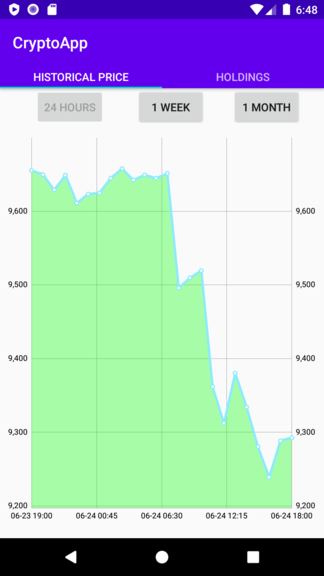
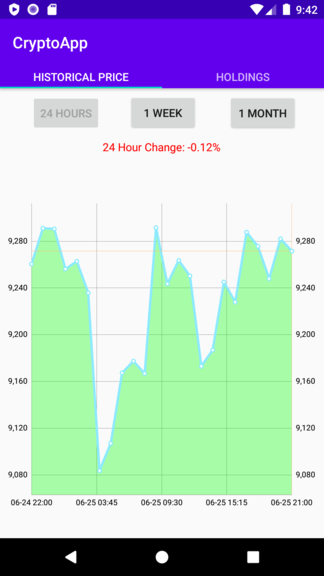
Added 1 Month price chart & percent change

diff --git a/app/src/main/java/com/example/cryptoapp/ui/main/ChartFragment.java b/app/src/main/java/com/example/cryptoapp/ui/main/ChartFragment.java
@@ -7,6 +7,7 @@ import android.view.LayoutInflater;
 import android.view.View;
 import android.view.ViewGroup;
 import android.widget.Button;
+import android.widget.TextView;
 
 
 import androidx.annotation.NonNull;
@@ -36,7 +37,6 @@ import org.json.JSONArray;
 import org.json.JSONException;
 import org.json.JSONObject;
 
-import java.lang.reflect.Array;
 import java.text.DateFormat;
 import java.text.ParseException;
 import java.text.SimpleDateFormat;
@@ -51,6 +51,8 @@ public class ChartFragment extends Fragment implements View.OnClickListener {
     private Date date = new Date();
     public LineChart priceChart;
 
+    private TextView change_in_price;
+
     private Button Hours;
     private Button Week;
     private Button Month;
@@ -64,6 +66,10 @@ public class ChartFragment extends Fragment implements View.OnClickListener {
     ArrayList time_1W_Arr = new ArrayList();
     ArrayList<Double> price_1W_Arr = new ArrayList<Double>();
     private long first_1W_timestamp;
+    
+    ArrayList time_1M_Arr = new ArrayList();
+    ArrayList<Double> price_1M_Arr = new ArrayList<Double>();
+    private long first_1M_timestamp;
 
 
     public ChartFragment(){
@@ -80,6 +86,8 @@ public class ChartFragment extends Fragment implements View.OnClickListener {
     @Override
     public View onCreateView(@NonNull LayoutInflater inflater, @Nullable ViewGroup container, @Nullable Bundle savedInstanceState) {
         View view = inflater.inflate(R.layout.fragment_chart, container, false);
+
+        change_in_price = view.findViewById(R.id.change_in_price);
 
         Hours = view.findViewById(R.id.Hours_Button);
         Week = view.findViewById(R.id.Week_Button);
@@ -106,6 +114,7 @@ public class ChartFragment extends Fragment implements View.OnClickListener {
         try {
             queue.add(find24HPrice(date));
             queue.add(find1WPrice(date));
+            queue.add(find1MPrice(date));
             Hours.setEnabled(false);
         } catch (ParseException e) {
             e.printStackTrace();
@@ -127,20 +136,88 @@ public class ChartFragment extends Fragment implements View.OnClickListener {
         switch (v.getId()){
             case R.id.Hours_Button:
                     plotChart(first_24H_timestamp, price_24H_Arr, time_24H_Arr, priceChart);
+                    setPercentColor(price_24H_Arr);
+                    change_in_price.setText("24 Hour Change: " + getPercentageChange(price_24H_Arr) + "%");
                     Hours.setEnabled(false);
-                break;
+                    break;
 
             case R.id.Week_Button:
                     plotChart(first_1W_timestamp, price_1W_Arr, time_1W_Arr, priceChart);
+                    setPercentColor(price_1W_Arr);
+                    change_in_price.setText("1 Week Change: " + getPercentageChange(price_1W_Arr) + "%");
                     Week.setEnabled(false);
-                break;
+                    break;
 
             case R.id.Month_Button:
-                Month.setEnabled(false);
-                break;
+                    plotChart(first_1M_timestamp, price_1M_Arr, time_1M_Arr, priceChart);
+                    setPercentColor(price_1M_Arr);
+                    change_in_price.setText("1 Month Change: " + getPercentageChange(price_1M_Arr) + "%");
+                    Month.setEnabled(false);
+                    break;
         }
 
     }
+
+    private void setPercentColor (ArrayList<Double> priceArr){
+        Double percentageChange = getPercentageChange(priceArr);
+        if(percentageChange < 0.00){
+            change_in_price.setTextColor(Color.RED);
+        }
+        else{
+            change_in_price.setTextColor(Color.GREEN);
+        }
+    }
+
+    public StringRequest find1MPrice(Date date) throws ParseException {
+        Calendar calendar = Calendar.getInstance();
+        SimpleDateFormat sdf = new SimpleDateFormat("yyyy-MM-dd'T'HH:mm:ss'Z'");
+
+        String current_time = sdf.format(calendar.getTime());
+        calendar.add(Calendar.DAY_OF_YEAR, -30);
+        String time_1MonthAgo = sdf.format(calendar.getTime());
+
+        String url_for_historical_data = "https://rest.coinapi.io/v1/ohlcv/BTC/USD/history?period_id=1DAY&time_start=";
+        String full_url = url_for_historical_data + time_1MonthAgo + "&apikey=" + api;
+
+        first_1M_timestamp = get1MAgoTime(sdf, calendar);
+
+        return new StringRequest(Request.Method.GET, full_url,
+                new Response.Listener<String>() {
+                    @Override
+                    public void onResponse(String response) {
+                        try {
+                            JSONArray jsonArray = new JSONArray(response);
+
+                            for(int i = 0; i < jsonArray.length(); i++){
+                                JSONObject tempJSONObject = jsonArray.getJSONObject(i);
+
+                                Double price = tempJSONObject.getDouble("price_open");
+                                String time = tempJSONObject.getString("time_period_start");
+
+                                String parsed_time = time.substring(0, 10) + " " + time.substring(11, 16);
+
+                                SimpleDateFormat df = new SimpleDateFormat("yyyy-MM-dd HH:mm");
+                                Date date = df.parse(parsed_time);
+                                long unix_time = date.getTime();
+                                long final_time = unix_time / 1000;
+                                long timestamp = final_time - first_1M_timestamp;
+
+                                time_1M_Arr.add(timestamp);
+                                price_1M_Arr.add(price);
+                            }
+
+                        } catch (JSONException | ParseException e) {
+                            e.printStackTrace();
+                        }
+                    }
+                }, new Response.ErrorListener() {
+            @Override
+            public void onErrorResponse(VolleyError error) {
+                System.out.println("Error");
+            }
+        });
+    }
+
 
     public StringRequest find1WPrice(Date date) throws ParseException {
         Calendar calendar = Calendar.getInstance();
@@ -170,7 +247,6 @@ public class ChartFragment extends Fragment implements View.OnClickListener {
 
                                 String parsed_time = time.substring(0, 10) + " " + time.substring(11, 16);
 
-                                // change the date to unix time & subtract against the first hr in the 24hr time set
                                 SimpleDateFormat df = new SimpleDateFormat("yyyy-MM-dd HH:mm");
                                 Date date = df.parse(parsed_time);
                                 long unix_time = date.getTime();
@@ -188,7 +264,7 @@ public class ChartFragment extends Fragment implements View.OnClickListener {
                 }, new Response.ErrorListener() {
             @Override
             public void onErrorResponse(VolleyError error) {
-
+                System.out.println("Error");
             }
         });
     }
@@ -235,7 +311,8 @@ public class ChartFragment extends Fragment implements View.OnClickListener {
                             price_24H_Arr.add(price);
                         }
                         plotChart(first_24H_timestamp, price_24H_Arr, time_24H_Arr, priceChart);
-
+                        setPercentColor(price_24H_Arr);
+                        change_in_price.setText("24 Hour Change: " + getPercentageChange(price_24H_Arr) + "%");
 
                         }   catch (JSONException | ParseException e) {
                             e.printStackTrace();
@@ -273,6 +350,28 @@ public class ChartFragment extends Fragment implements View.OnClickListener {
         xAxis.setLabelCount(5, true);
         xAxis.setValueFormatter(new XValueFormatter(timestamp));
     }
+
+    private Double getPercentageChange(ArrayList<Double> priceArr){
+        double previous_price = priceArr.get(0);
+        double current_price = priceArr.get(priceArr.size()-1);
+
+        double percentage = (((previous_price - current_price) / previous_price) * 100);
+        double rounded_percent = Math.round(percentage * 100.0) / 100.0;
+        return rounded_percent;
+    }
+
+    private long get1MAgoTime(SimpleDateFormat sdf, Calendar calendar) throws ParseException {
+        sdf = new SimpleDateFormat("yyyy-MM-dd HH:mm");
+        calendar.add(Calendar.DATE, 1);
+        String MonthAgoTime = sdf.format(calendar.getTime());
+        String time = MonthAgoTime.substring(0, 10) + " " + "00:00";
+        Date d = sdf.parse(time);
+        long unix_time = d.getTime();
+        long final_time = unix_time / 1000;
+
+        return final_time;
+    }
+
     private long get1WAgoTime(SimpleDateFormat sdf, Calendar calendar) throws ParseException {
         sdf = new SimpleDateFormat("yyyy-MM-dd HH:mm");
         String WeekAgoTime = sdf.format(calendar.getTime());
@@ -287,7 +386,6 @@ public class ChartFragment extends Fragment implements View.OnClickListener {
     }
 
     private String change1WHour(int hour){
-        //23-4 = 0,     5-10 = 6,        11-16 = 12,        17-22 = 18
         if(hour >= 23 || hour <= 4){
             return String.valueOf(0);
         }

diff --git a/README.md b/README.md
@@ -11,3 +11,4 @@
 ![](images/price_of_btc(resized).png)
 ![](images/24hr_chart.png)
 ![](images/1Week_chart.png)
+![](images/1Month_chart.png)
